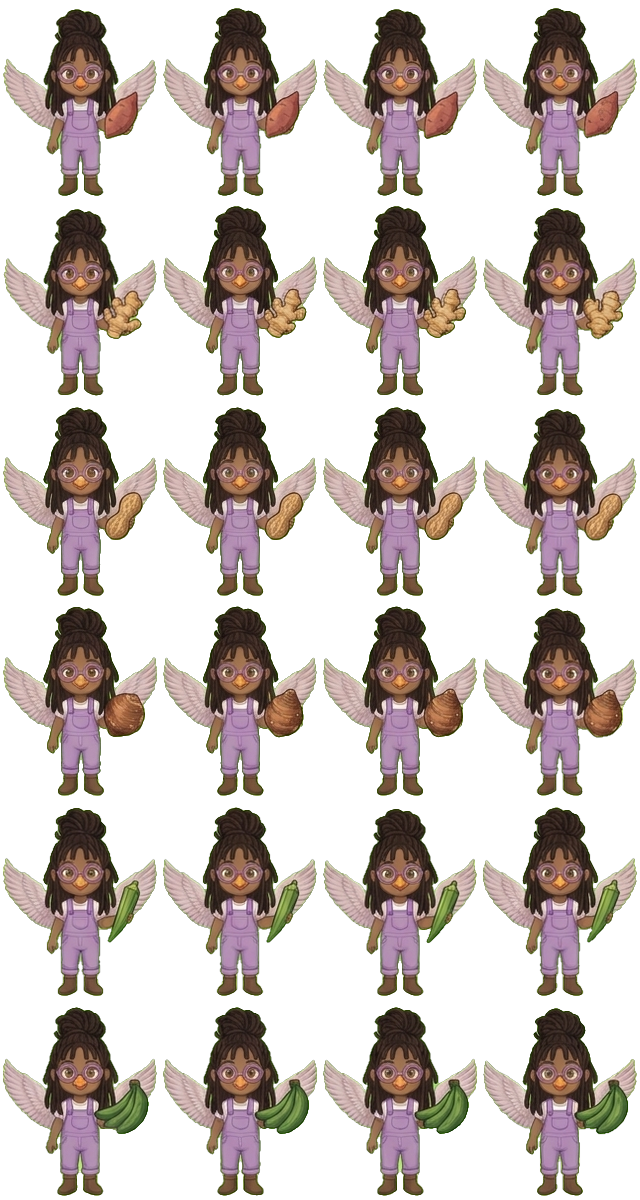
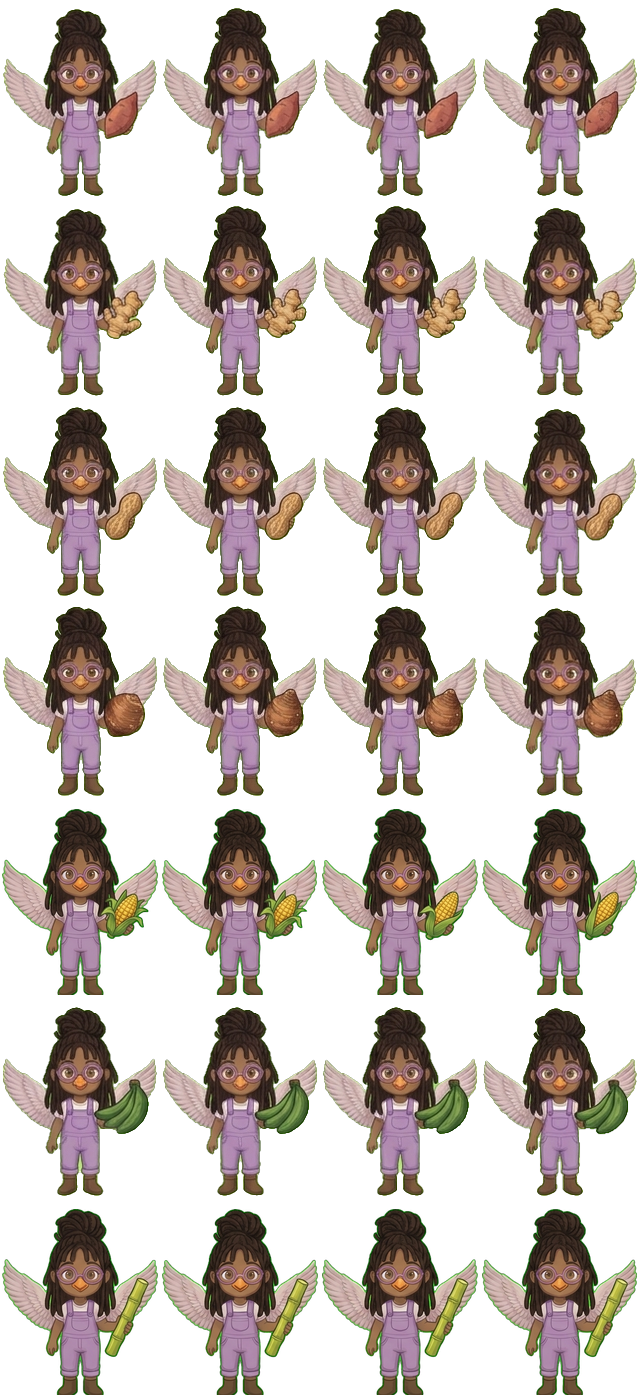
Myah tient le maïs et la canne à sucre
Claude-Session: https://claude.ai/code/session_014bi368SbjZ4sCSmbjCzFcj

diff --git a/game.js b/game.js
@@ -7332,10 +7332,9 @@ function giveAnim(need, done) {
     clearTimeout(tm); if (i >= items.length) { if (!fin) { fin = true; o.remove(); done(); } return; }
     const [k, n] = items[i++], vi = VEG.findIndex(v => v.k === k), sc = Math.min(1.5, innerHeight / 430), W = 160 * sc, H = 200 * sc;
     let img, cols, rows, r, c, nm, em;
-    if (vi === 4 || vi === 6) { img = 'garden/veg_ripe'; cols = 4; rows = 7; r = vi; c = Math.floor(Math.random() * 4); nm = VEG[vi].n; em = VEG[vi].e; }   // maïs et canne : pas encore d'image de Myah qui les tient
-    else if (vi >= 0) { img = 'myah_veg'; cols = 4; rows = 6; r = vi; c = Math.floor(Math.random() * 4); nm = VEG[vi].n; em = VEG[vi].e; }
+    if (vi >= 0) { img = 'myah_veg'; cols = 4; rows = 7; r = vi; c = Math.floor(Math.random() * 4); nm = VEG[vi].n; em = VEG[vi].e; }
     else { const g = GIVE_IT[k], cell = g.c[Math.floor(Math.random() * g.c.length)]; img = 'myah_items'; cols = 4; rows = 3; r = Math.floor(cell / 4); c = cell % 4; nm = g.n; em = g.e; }
-    o.innerHTML = '<div style="width:' + W + 'px;height:' + H + 'px;background:url(assets/' + img + '.png) no-repeat;background-size:' + (W * cols) + 'px ' + (H * rows) + 'px;background-position:-' + (c * W) + 'px -' + (r * H) + 'px;animation:gpop .5s ease-out;filter:drop-shadow(0 6px 8px rgba(0,0,0,.4))"></div><div style="margin-top:6px;background:#fff8e6;border-radius:14px;padding:6px 14px;color:#5a3b1c;font-weight:bold;font-size:16px">Myah remet ' + n + ' × ' + nm + ' ' + em + '</div>';
+    o.innerHTML = '<div style="width:' + W + 'px;height:' + H + 'px;background:url(assets/' + img + '.png?v=93) no-repeat;background-size:' + (W * cols) + 'px ' + (H * rows) + 'px;background-position:-' + (c * W) + 'px -' + (r * H) + 'px;animation:gpop .5s ease-out;filter:drop-shadow(0 6px 8px rgba(0,0,0,.4))"></div><div style="margin-top:6px;background:#fff8e6;border-radius:14px;padding:6px 14px;color:#5a3b1c;font-weight:bold;font-size:16px">Myah remet ' + n + ' × ' + nm + ' ' + em + '</div>';
     o.innerHTML = emoFix(o.innerHTML); sfx.star(); tm = setTimeout(next, 1500);
   };
   o.addEventListener('pointerdown', e => { e.preventDefault(); e.stopPropagation(); audio(); next(); }); next();

diff --git a/index.html b/index.html
@@ -1142,7 +1142,7 @@
 <script src="mymask.js"></script>
 <script src="sprites.js"></script>
 <script src="art.js"></script>
-<script src="game.js?v=92"></script>
+<script src="game.js?v=93"></script>
 </body>
 </html>
 
